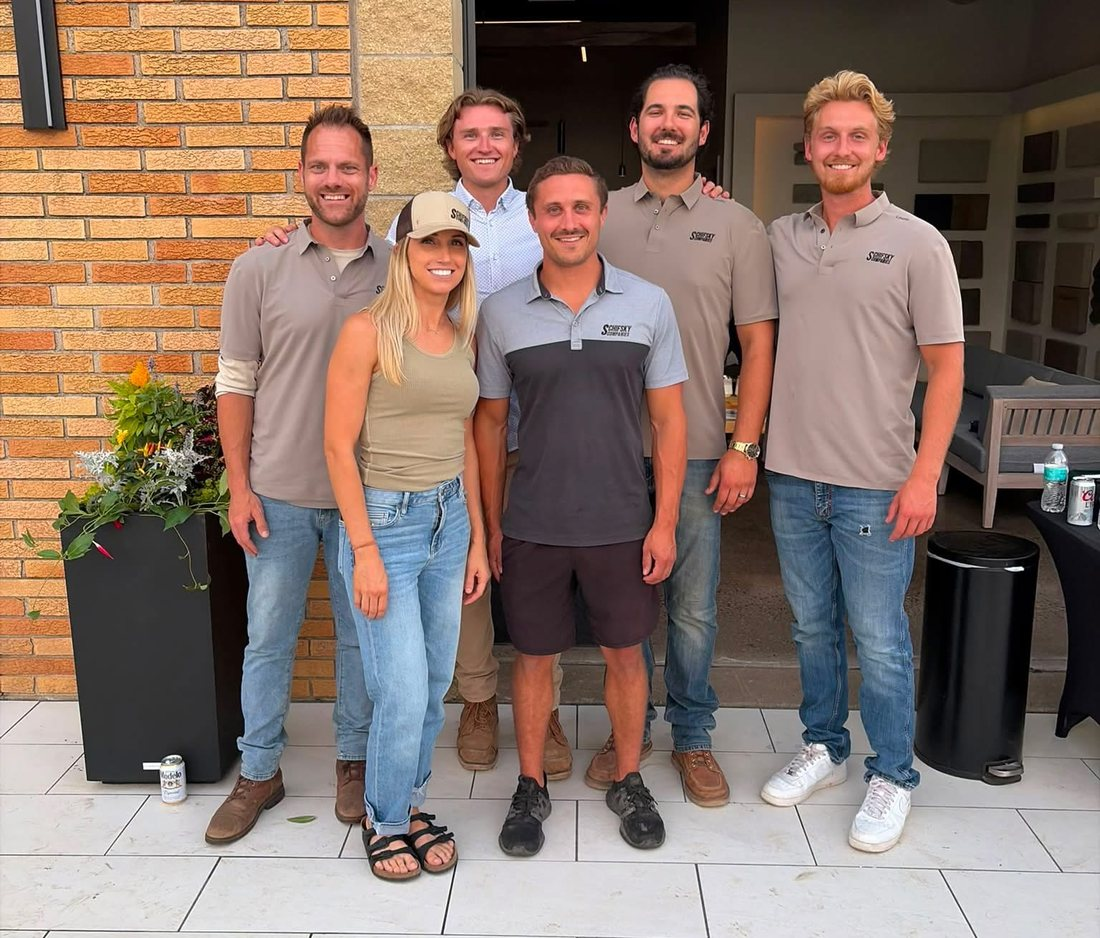
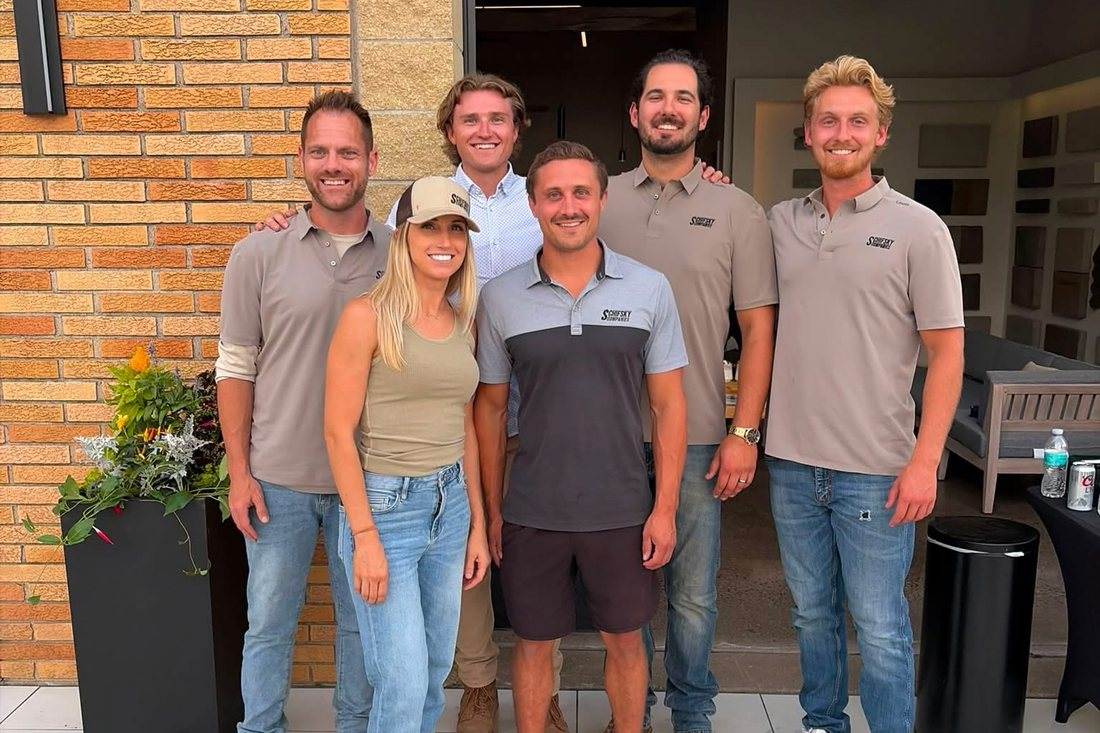
team crop

diff --git a/UPLOAD-TO-CLOUDFLARE-v2/about/index.html b/UPLOAD-TO-CLOUDFLARE-v2/about/index.html
@@ -106,7 +106,7 @@
     // Close the whole menu when a real link (not the accordion toggle) is tapped
     document.querySelectorAll('#mobileMenu a').forEach(function (a) { a.addEventListener('click', close); });
   })();
-</script> <main id="main">  <section class="page-hero"> <div class="wrap"> <span class="eyebrow on-dark">Our Story</span> <h1>A Family Business, Built on Doing It Right</h1> <p>Family-owned landscape design &amp; build, serving the Twin Cities for 37+ years.</p> </div> </section> <section> <div class="wrap split"> <div class="split-img reveal"> <img src="/img/team-showroom.jpg" alt="The Schifsky Companies team outside the Lake Elmo design showroom" width="1100" height="938"> <div class="badge-float"><b>Since 1989</b><span>Family-Owned</span></div> </div> <div class="reveal prose" style="margin:0;"> <p>
+</script> <main id="main">  <section class="page-hero"> <div class="wrap"> <span class="eyebrow on-dark">Our Story</span> <h1>A Family Business, Built on Doing It Right</h1> <p>Family-owned landscape design &amp; build, serving the Twin Cities for 37+ years.</p> </div> </section> <section> <div class="wrap split"> <div class="split-img reveal"> <img src="/img/team-showroom.jpg" alt="The Schifsky Companies team outside the Lake Elmo design showroom" width="1100" height="733" style="object-position:center top;"> <div class="badge-float"><b>Since 1989</b><span>Family-Owned</span></div> </div> <div class="reveal prose" style="margin:0;"> <p>
 Founded in 1989 in Stillwater, MN, Schifsky Companies began with a focus on
           retaining walls and paver patios. Over 37+ years we&rsquo;ve grown and
           evolved - expanding into 3D landscape design, complete design-build services, and both
